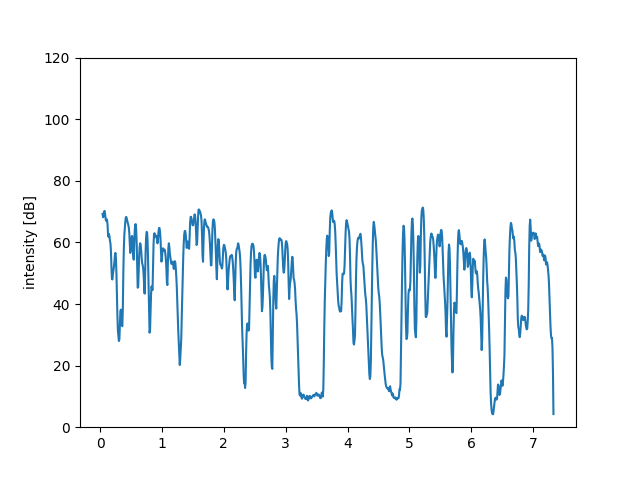
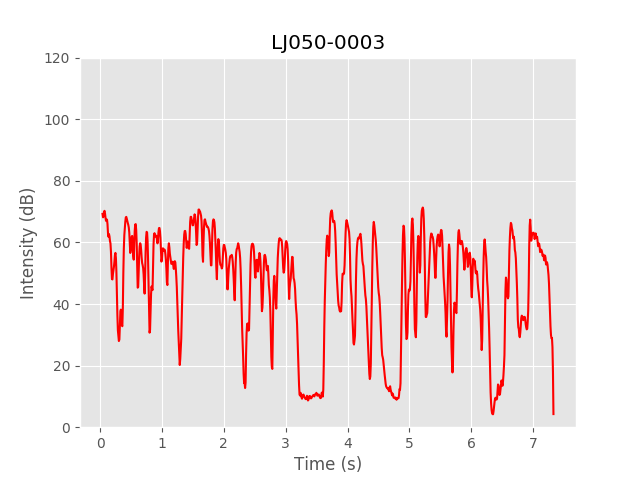
small fixes

diff --git a/utils.py b/utils.py
@@ -6,6 +6,7 @@ import parselmouth
 import matplotlib.pyplot as plt
 import pysptk
 import matplotlib.mlab as mlab
+plt.style.use('ggplot')
 
 # TODO: extract features as a different step to not repeat?
 
@@ -38,33 +39,43 @@ def extract_harmonics(waveform):
 #TODO: pick different colours for the different graphs
 
 # From original https://github.com/YannickJadoul/Parselmouth
-def draw_pitch(pitch_values, xaxis, settings, mode, filepath):
+def draw_pitch(pitch, smoothed, interpolated, xaxis, settings, filepath):
     plt.clf()
     plt.ylim(0, settings.pitch_ceiling)
-    plt.ylabel("fundamental frequency [Hz]")
-    plt.plot(xaxis, pitch_values)
-    plt.savefig(settings.save_plots+'/f0_'+mode+'_'+filepath.replace('wav', 'png'))
+    plt.ylabel("Fundamental Frequency (Hz)")
+    plt.xlabel("Time (s)")
+    plt.plot(xaxis, pitch, color='red', label='pitch')
+    plt.plot(xaxis, interpolated, color='purple', label='interpolated', alpha=0.5)
+    plt.plot(xaxis, smoothed, color='blue', label='smoothed')
+    plt.legend()
+    plt.title(filepath.replace('.wav', ''))
+    plt.savefig(settings.save_plots+'/f0_'+filepath.replace('wav', 'png'))
 
 def draw_intens(intens_values, xaxis, settings, filepath):
     plt.clf()
     plt.ylim(0, 120)
-    plt.ylabel("intensity [dB]")
-    plt.plot(xaxis, intens_values)
+    plt.ylabel("Intensity (dB)")
+    plt.xlabel("Time (s)")
+    plt.plot(xaxis, intens_values, color='red')
+    plt.title(filepath.replace('.wav', ''))
     plt.savefig(settings.save_plots+'/intens_'+filepath.replace('wav', 'png'))
 
 def draw_zcoef(coef_values, xaxis_len, settings, filepath):
     plt.clf()
     plt.ylim(0, 70)
-    plt.ylabel("zero coefficient")
-    plt.xlabel("frames")
-    plt.plot(range(0, xaxis_len), coef_values)
+    plt.ylabel("Zero Coefficient")
+    plt.xlabel("Frames")
+    plt.plot(range(0, xaxis_len), coef_values, color='orange')
+    plt.title(filepath.replace('.wav', ''))
     plt.savefig(settings.save_plots+'/zcoef_'+filepath.replace('wav', 'png'))
 
 def draw_harmonic(harmonic_values, xaxis, settings, filepath):
     plt.clf()
     plt.ylim(0, 25)
-    plt.ylabel("intensity [dB]")
-    plt.plot(xaxis, harmonic_values)
+    plt.ylabel("Intensity (dB)")
+    plt.xlabel("Time (s)")
+    plt.plot(xaxis, harmonic_values, color='pink')
+    plt.title(filepath.replace('.wav', ''))
     plt.savefig(settings.save_plots+'/harmonic_'+filepath.replace('wav', 'png'))
 
 def plot_stats(indicator, name, settings, bins=25):
@@ -74,8 +85,9 @@ def plot_stats(indicator, name, settings, bins=25):
     minv = min(values)
     if minv < 0: minv = 0
     plt.xlim(minv, max(values))
-    n, bins, _ = plt.hist(values, bins='auto', normed=1)
+    n, bins, _ = plt.hist(values, bins='auto', normed=1, color='blue')
     plt.ylim(0, max(n))
+    plt.title(settings.title)
     # Mean line
     values = [x for x in indicator if x > 0]
     plt.axvline(np.nanmean(values), color='k', linestyle='dashed', linewidth=1)

diff --git a/analyse.py b/analyse.py
@@ -9,7 +9,7 @@ import os
 import pysptk
 from scipy.io import wavfile
 import matplotlib.pyplot as plt
-#np.set_printoptions(threshold=np.inf)
+
 
 #TODO: what would be the point of accumulating mean, min and max? think about how to show it
 perc_voiced, pitch_values, silence_values, harmonic_values = [], [], [], [] # Only leave those we'll use for stats
@@ -30,15 +30,13 @@ class ProsodicAnalysis():
         self.pitch_countour = pitch_analysis.selected_array['frequency']
         self.pitch_countour[self.pitch_countour==0] = np.nan
         pitch_values.append(self.pitch_countour)
-        draw_pitch(self.pitch_countour, pitch_analysis.xs(), settings, 'original', filepath)
         # Interpolated contour
         self.interpolated = pitch_analysis.interpolate().selected_array['frequency']
         self.interpolated[self.interpolated==0] = np.nan
-        draw_pitch(self.interpolated, pitch_analysis.xs(), settings, 'interpolated', filepath)
         # Smoothed version
         self.smoothed = pitch_analysis.smooth(bandwidth=self.settings.smooth_bandwidth).selected_array['frequency']
         self.smoothed[self.smoothed==0] = np.nan
-        draw_pitch(self.smoothed, pitch_analysis.xs(), settings, 'smoothed', filepath)
+        draw_pitch(self.pitch_countour, self.smoothed, self.interpolated, pitch_analysis.xs(), settings, filepath)
         # Percentage of voiced frames # TODO: how to plot this?
         self.perc_voiced = (pitch_analysis.count_voiced_frames() * 100) / pitch_analysis.get_number_of_frames()
         perc_voiced.append(self.perc_voiced)

diff --git a/data_load.py b/data_load.py
@@ -1,7 +1,7 @@
-# Load one file or corpora waveforms
-# Load gender and alignments if there are any
+
+
 import parselmouth
 
-
+# Load corpora waveforms
 def load_wave(filepath):
     return parselmouth.Sound(filepath)

diff --git a/configuration.py b/configuration.py
@@ -18,7 +18,8 @@ DEFAULTS = [
     ('analyse_rate', False),
     ('analyse_voc', True),
     ('corpora', ''),
-    ('save_plots', '')
+    ('save_plots', ''),
+    ('title', '')
     ]
 
 class Config(object):
